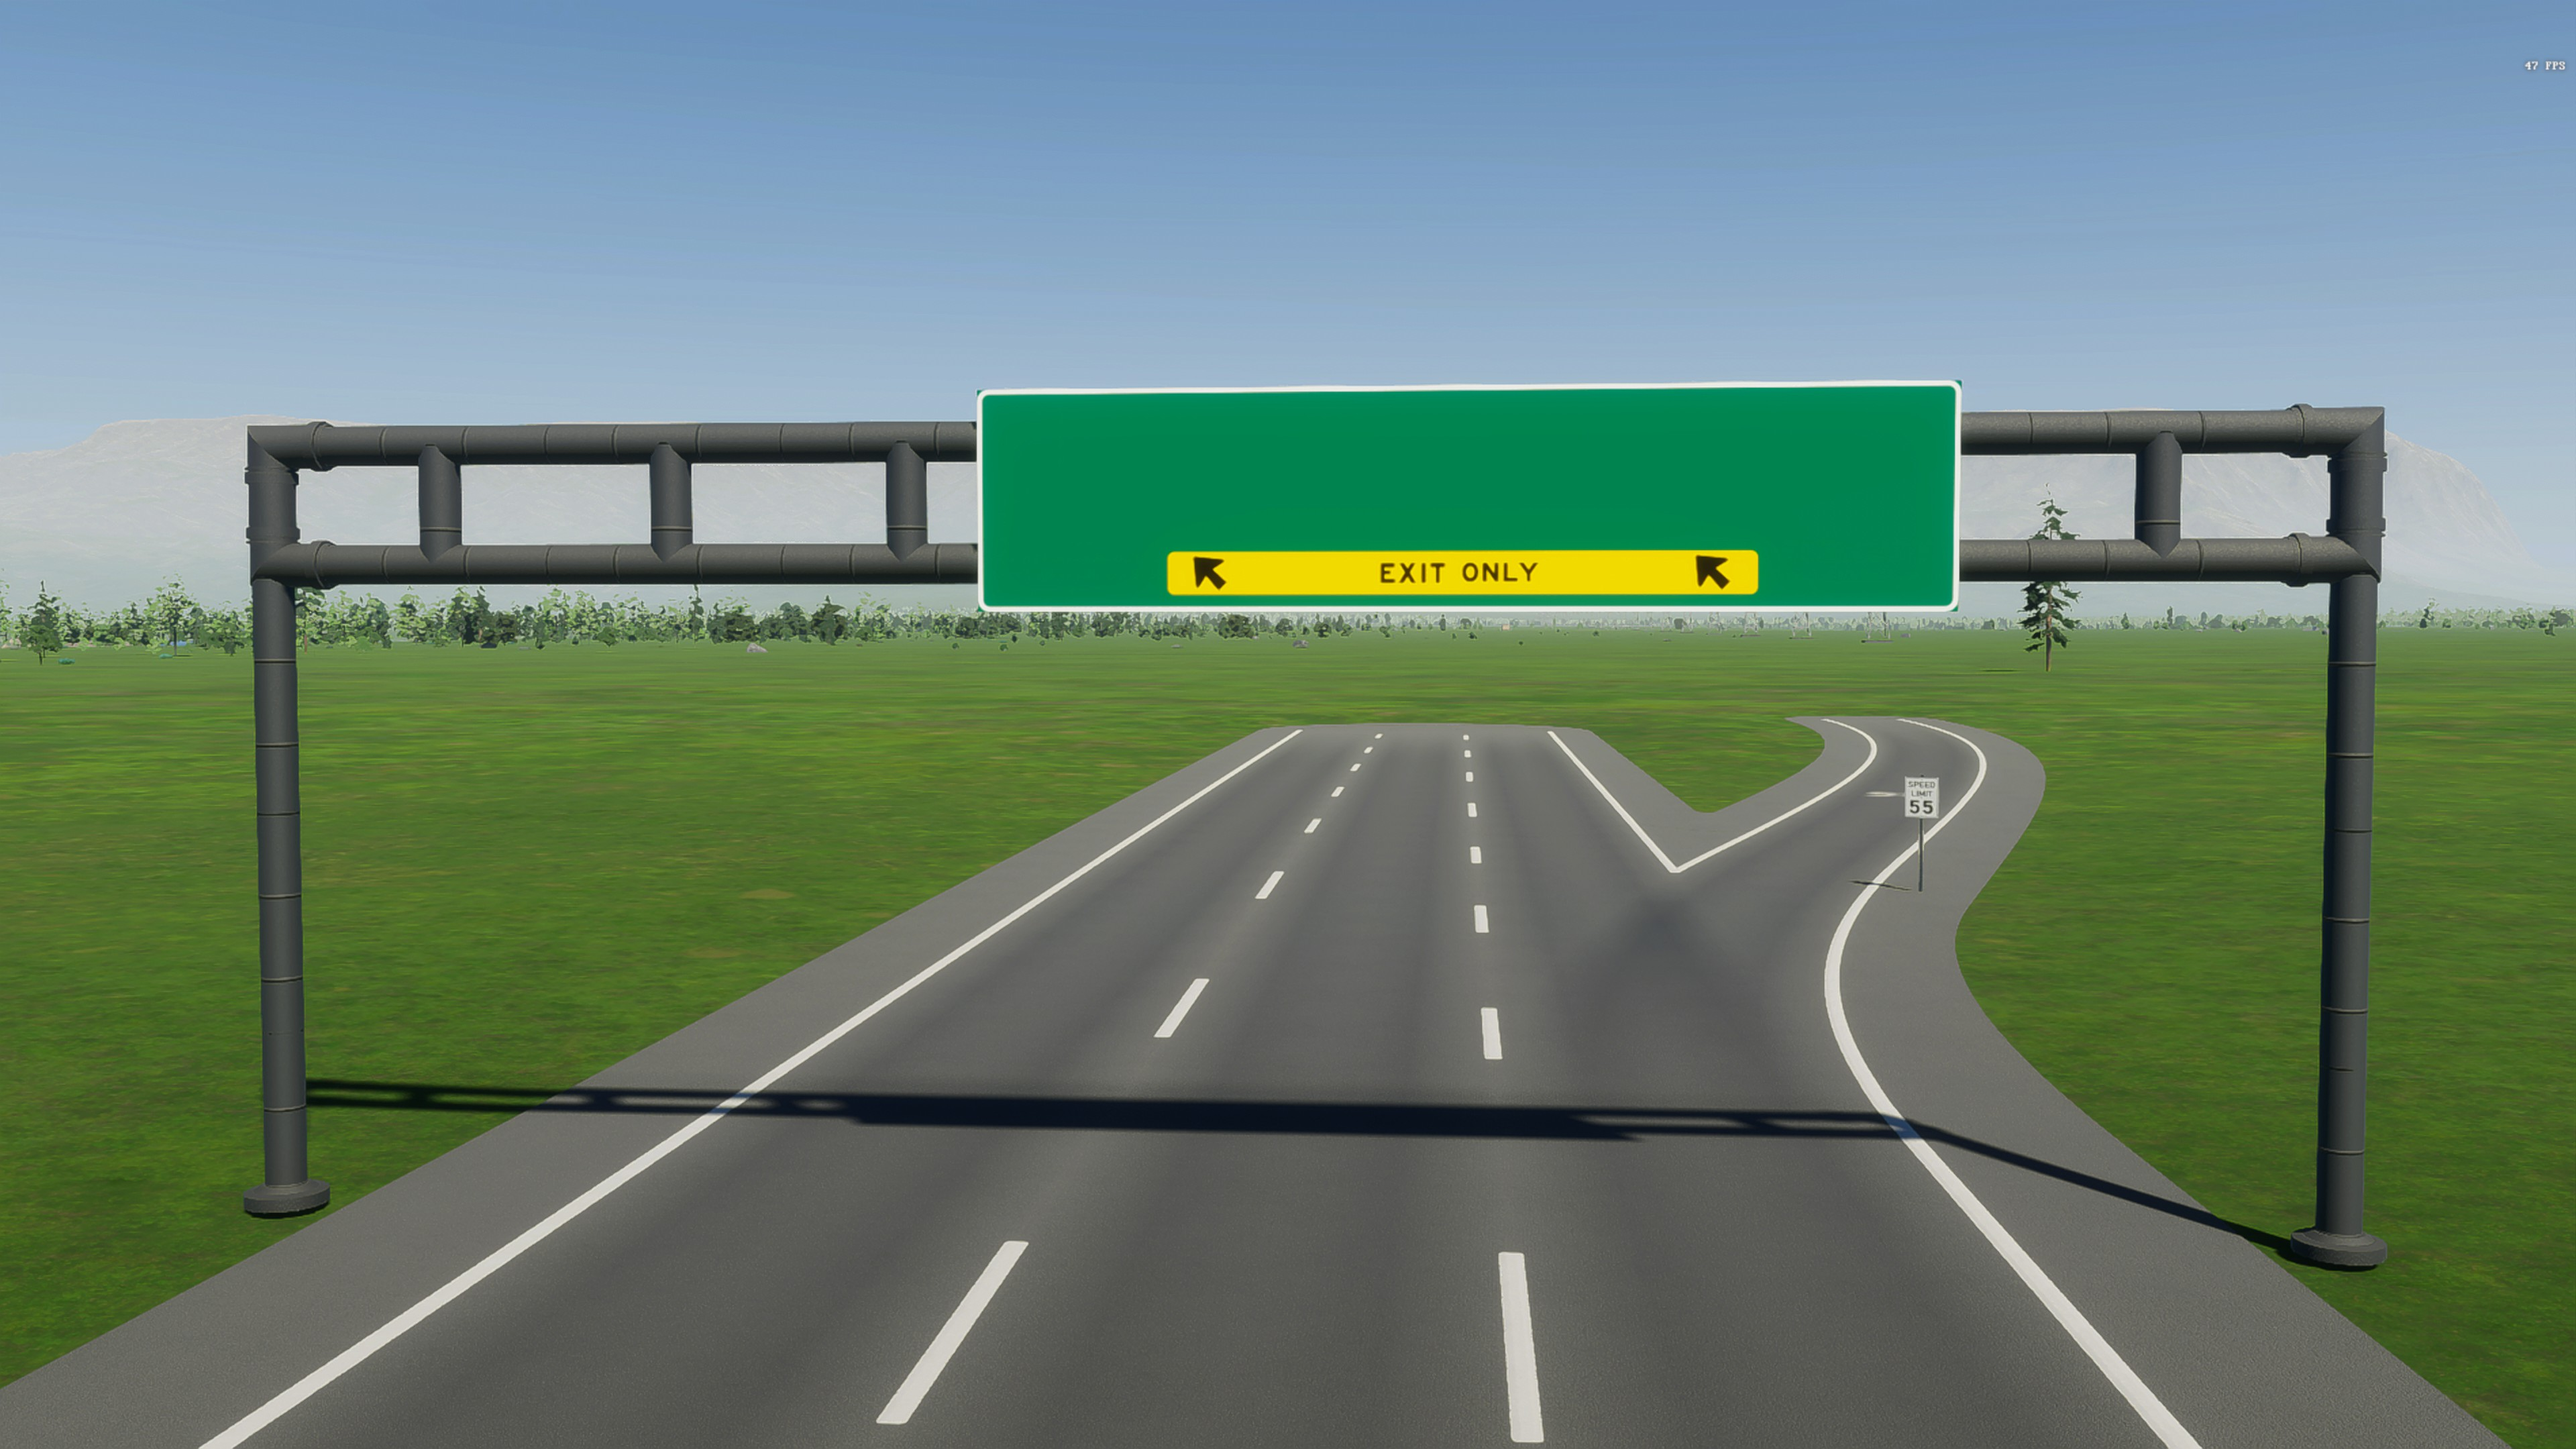
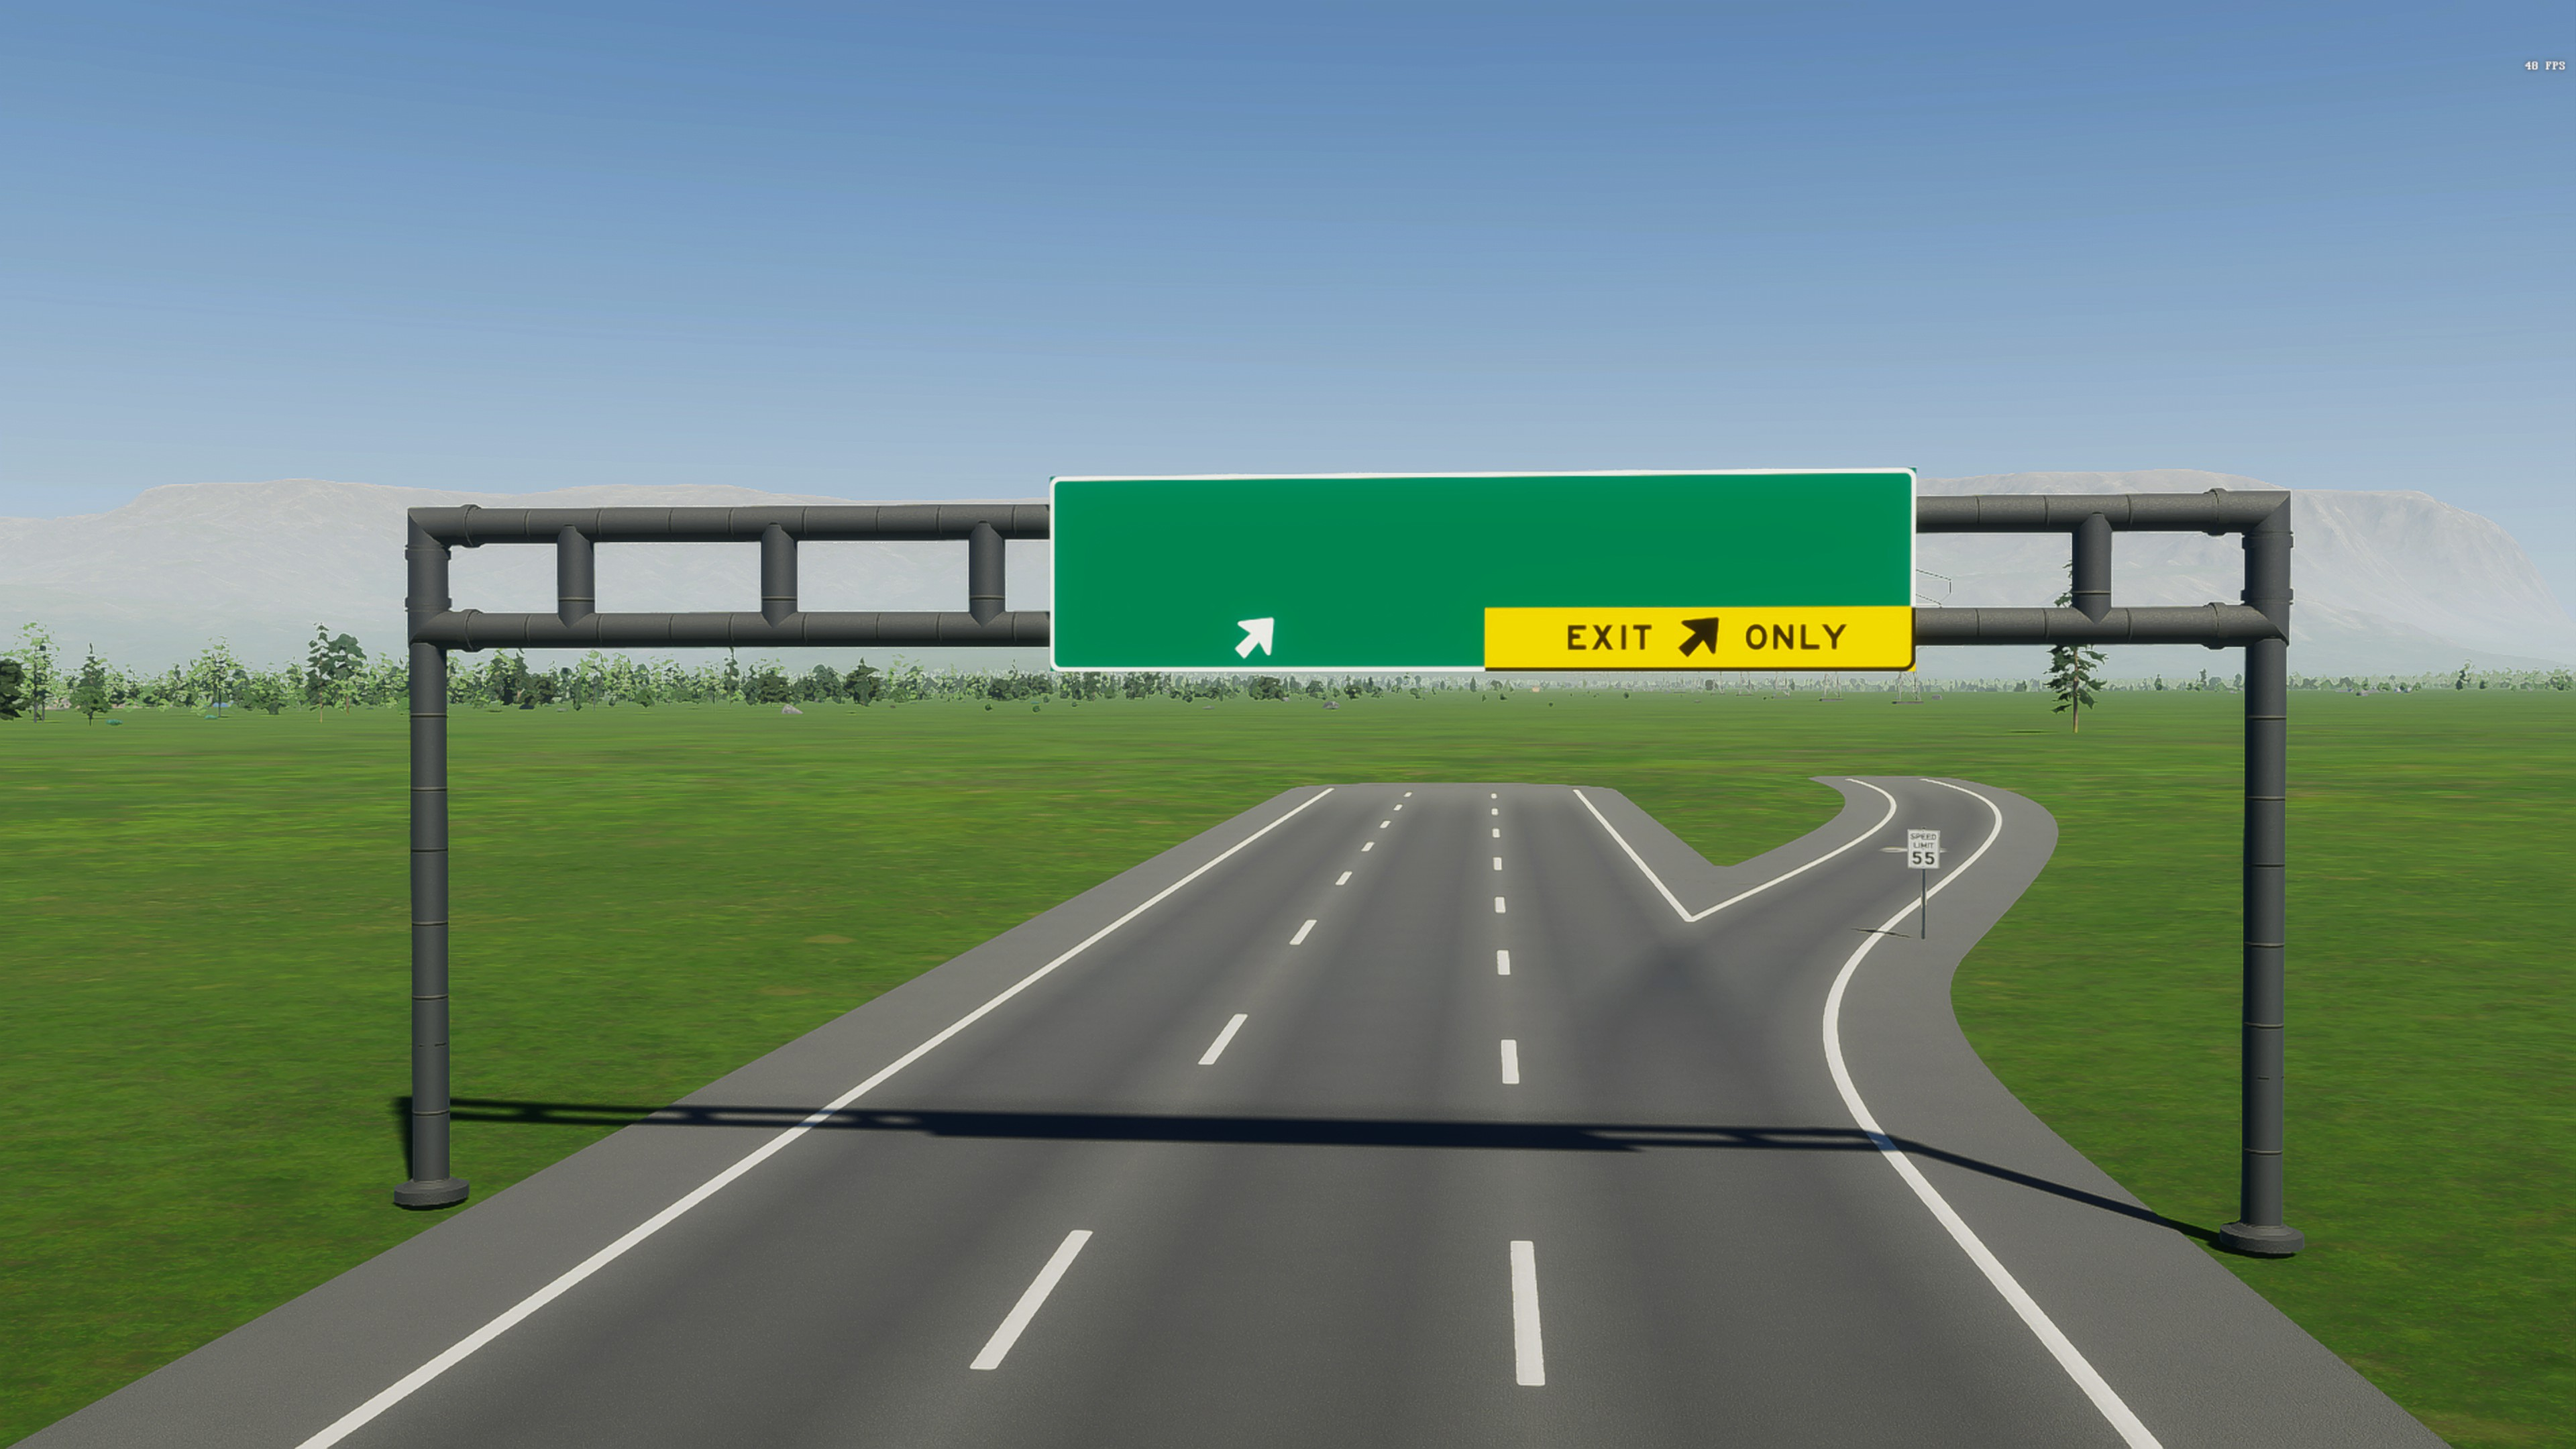
v1.1 Ext1 Atlas pack integration

diff --git a/_BaseModule/README.md b/_BaseModule/README.md
@@ -6,6 +6,7 @@ Hello Cities: Skylines II civil engineers! This is a **Write Everywhere Module**
 
 - 2 Lane (Medium) California Highway (Freeway) signs inspired by California's MUTCD
 - 71 total signs (see screenshots)
+- Additional 84 new signs with exit tab style 1 with Ext1 WE atlas pack (with v1.1 update)
 - WE Layout included for easy implementation onto your highways (freeways)
 
 ## How to Use

diff --git a/_BaseModule/changelog.md b/_BaseModule/changelog.md
@@ -1,0 +1,2 @@
+# v1.1
+- Adds additional 84 new 2LM CA Highway signs with California Exit Tab Style 1 with Ext1 WE atlas pack.
